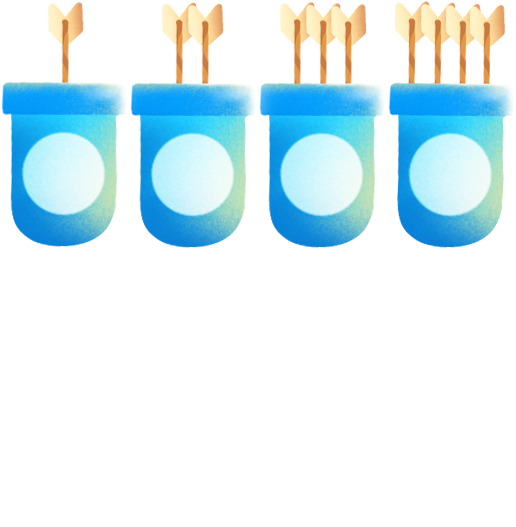
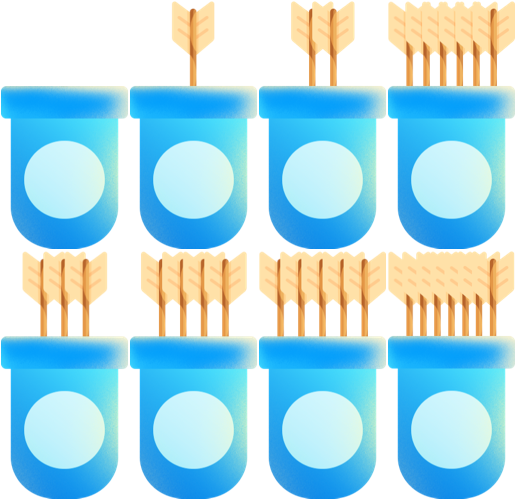
update

diff --git a/src/scenes/Game4/Play.ts b/src/scenes/Game4/Play.ts
@@ -8,6 +8,7 @@ import { cover } from "../../Public/jonny/core/cover";
 import { Gold } from "../../Public/jonny/components/Gold";
 import CreateGuideAnims from "../../Public/CreateGuideAnims";
 import { SellingGold } from "../../Public/jonny/components/SellingGold";
+import TipsParticlesEmitter from "../../Public/TipsParticlesEmitter";
 
 const W = 1024;
 const H = 552;
@@ -40,8 +41,9 @@ export default class Game4PlayScene extends Phaser.Scene {
     private createGuideAnims : CreateGuideAnims; //引导动画引用
     private goldObj : Gold ; //金币组件引用
     private goldNum : number = 20; //初始金币
-    private errorNum : number = 0; //错误次数
-    private lockLifeHandle : boolean = false ; //锁血
+    private isCheck : boolean = false; //是否结算
+    private tips : TipsParticlesEmitter; //游戏结果
+    // private lockLifeHandle : boolean = false ; //锁血
     // private arrowCirObj : Phaser.GameObjects.Graphics; //箭上的圆圈
     // private arrowText : Phaser.GameObjects.Text; //箭头上面的文本
     constructor() {
@@ -62,6 +64,7 @@ export default class Game4PlayScene extends Phaser.Scene {
       this.loadBgm(); //加载背景音乐跟音效
       PlanAnims.loadImg(this); //全局组件加载img
       SellingGold.loadImg(this); //全局组件加载Img
+      TipsParticlesEmitter.loadImg(this);
     }
     
   
@@ -84,6 +87,8 @@ export default class Game4PlayScene extends Phaser.Scene {
         });
         this.goldObj = new Gold(this,20);
         this.add.existing(this.goldObj);
+        this.tips = new TipsParticlesEmitter(this)
+        this.goldObj.setText(this.goldNum -= 1);
       })
       this.createBackgroundImage(); //背景图
       // this.createMask() ; //创建遮罩层
@@ -132,12 +137,12 @@ export default class Game4PlayScene extends Phaser.Scene {
 
     private createQuiver () : void {
       //创建气泡跟箭筒
-      this.quiver = this.add.sprite(250,H - 100,'game4Icons2',`jianshi${this.words.length}.png`).setScale(0.8);
+      this.quiver = this.add.sprite(250,H - 100,'game4Icons2',`jianshi${this.quiverNum}.png`).setScale(0.8);
       this.quiverText = this.add.text(this.quiver.x,this.quiver.y + 40,this.words[0].name,{
         font: 'bold 37px Arial Rounded MT',
         fill : '#017dbd',
       }).setOrigin(.5);
-      this.popObj = this.add.sprite(this.civa.x + 150,this.civa.y - 50,'game4Icons2','talk.png').setScale(.5).setOrigin(.5);
+      this.popObj = this.add.sprite(this.civa.x + 150,this.civa.y - 50,'talk').setScale(.5).setOrigin(.5);
       this.popText = this.add.text(this.popObj.x,this.popObj.y - 10,this.ccData[this.ccDataIndex].name,{
         font: 'bold 50px Arial Rounded MT',
         fill : '#ff5054',
@@ -185,7 +190,7 @@ export default class Game4PlayScene extends Phaser.Scene {
 
     private createArrow () : void {
       //创建箭矢
-      this.arrowObj = this.physics.add.sprite(this.civa.x + this.civa.width / 2,this.civa.y + this.civa.height / 2 + 60,'icons','jian.png').setOrigin(0.5).setAlpha(0);
+      this.arrowObj = this.physics.add.sprite(this.civa.x + this.civa.width / 2,this.civa.y + this.civa.height / 2 + 60,'jian').setOrigin(0.5).setAlpha(0);
       // this.arrowCirObj = this.add.graphics();
       // this.arrowCirObj.fillStyle(0xffffff, 0.8);
       // this.arrowCirObj.fillCircle(this.arrowObj.x,this.arrowObj.y,20);
@@ -220,10 +225,8 @@ export default class Game4PlayScene extends Phaser.Scene {
             this.allBallonIsFinish();
           }
         }else{
-          this.errorNum = this.errorNum + 1 > this.words.length && this.words.length || this.errorNum + 1; //错误次数 错一次金币少一颗
-          console.log(this.errorNum);
           this.setPopAndQuiver(true);
-          this.showWrongObjHandle();
+          this.tips.tryAgain(()=>{});
           this.playMusic('wrong');
           this.shootLock = false;
           this.clickLock = true;
@@ -267,6 +270,7 @@ export default class Game4PlayScene extends Phaser.Scene {
           !this.showWordHandle.lock && (this.createGuideAnims = new CreateGuideAnims(this,this.wordObj.x + 200, this.wordObj.y));
           //@ts-ignore
           this.showWordHandle.lock = true;
+          this.isCheck = true;
         }
       })
     }
@@ -306,7 +310,6 @@ export default class Game4PlayScene extends Phaser.Scene {
       this.lineSprites[this.currentClickIndex] = null;
       this.textArr[this.currentClickIndex].destroy();
       this.textArr[this.currentClickIndex] = null;
-      this.changeQuiverNums(this.quiverNum - 1); //修改箭筒箭矢数量
     }
 
     private getAngel (px : number,py : number,mx : number,my : number) : number {
@@ -433,11 +436,11 @@ export default class Game4PlayScene extends Phaser.Scene {
           audioKey : r.audioKey
         }
       }) || this.transDataHandle(currentItem);
-      this.quiverNum = this.words.length ; //箭筒箭矢数量初始化
+      this.quiverNum = this.words.length + 3 ; //箭筒箭矢数量初始化
       this.errorWords = this.shuffle([...this.words]); //打乱原始数据
-      this.errorNum = 0; //清空错误次数
       this.ballonSprites.length = 0 ;
-      this.lockLifeHandle = false ; //解除锁血
+      this.isCheck = false;
+      // this.lockLifeHandle = false ; //解除锁血
     }
 
     private playMusic (sourceKey : string) : void {
@@ -478,14 +481,55 @@ export default class Game4PlayScene extends Phaser.Scene {
         return new Blob([uInt8Array], {type: contentType});
     }
 
+    private tryAgainHandle () : void {
+      this.quiverNum = this.words.length + 3;
+      this.changeQuiverNums(this.quiverNum);
+    }
+
+
+    private nextWordHandle () : void {
+      //下一个词
+      // ballonSprites,lineSprites,wolfObj
+      this.ballonSprites.map((r,i)=>{
+        r.destroy();
+      });
+      this.lineSprites.map((r,i)=>{
+        r.destroy();
+      })
+      this.textArr.map((r,i)=>{
+        r.destroy();
+      })
+      this.ballonSprites.length = 0;
+      this.lineSprites.length = 0;
+      this.textArr.length = 0;
+      this.wolfObj.destroy();
+      this.wolfObj = null;
+      this.goldObj.setText(this.goldNum += this.quiverNum);
+      this.wordObj.setScale(1);
+      this.currentWord.setScale(1);
+      this.wordObj.y += H;
+      this.currentWord.y += H;
+      if(++this.ccDataIndex >= this.ccData.length){
+        this.ccDataIndex = 0;
+      }
+      this.popText.setText(this.ccData[this.ccDataIndex].name);
+      this.index = -1;
+      this.civa.destroy();
+      this.setWords();
+      this.createWord();
+      this.drawCivaAndWolf();
+      this.drawAnimsHandle();
+      this.setPopAndQuiver();
+      this.changeQuiverNums(this.quiverNum); 
+    }
+
     private clickHandle () : void {
       //点击场景触发
       this.input.on('pointerdown',(...args)=>{
         //@ts-ignore
         if(args[1].length === 0 || args[1][0] instanceof Phaser.GameObjects.Image ) return;
         if(this.goldNum === 0 ) return alert('啊哦，金币不足，一起去赚金币吧');
-        !this.lockLifeHandle && this.goldObj.setText(this.goldNum -= 1);
-        this.lockLifeHandle = true;
+        if(this.quiverNum === 0 && !this.isCheck) return this.tips.error(this.nextWordHandle.bind(this),this.tryAgainHandle.bind(this));
         this.playMusic('shoot');
         this.createGuideAnims && this.createGuideAnims.hideHandle(); //隐藏引导动画
         this.createGuideAnims = null;
@@ -502,30 +546,15 @@ export default class Game4PlayScene extends Phaser.Scene {
             onComplete : ()=>{
               let goldAnims = new SellingGold(this,{
                 callback : ()=>{
-                  this.goldObj.setText(this.goldNum += (this.words.length - this.errorNum));
-                  this.wordObj.setScale(1);
-                  this.currentWord.setScale(1);
-                  this.wordObj.y += H;
-                  this.currentWord.y += H;
-                  if(++this.ccDataIndex >= this.ccData.length){
-                    this.ccDataIndex = 0;
-                  }
-                  this.popText.setText(this.ccData[this.ccDataIndex].name);
-                  this.index = -1;
-                  this.civa.destroy();
-                  this.setWords();
-                  this.createWord();
-                  this.drawCivaAndWolf();
-                  this.drawAnimsHandle();
-                  this.setPopAndQuiver();
-                  this.changeQuiverNums(this.quiverNum);   
+                    this.nextWordHandle();
                 }
               });
-              goldAnims.goodJob(this.words.length - this.errorNum);
+              goldAnims.goodJob(this.quiverNum);
             }
           })
         }
         if(this.shootLock) return;
+        this.changeQuiverNums(this.quiverNum - 1); //修改箭筒箭矢数量
         this.tweens.add({
           targets : args[1][0],
           duration : 200,
@@ -551,7 +580,7 @@ export default class Game4PlayScene extends Phaser.Scene {
     }
 
     private changeQuiverNums (index : number) : void{
-      this.quiverNum = index < 1 && 1 || index;
+      this.quiverNum = index < 0 ? 0 : index;
       this.quiver.setFrame(`jianshi${this.quiverNum}.png`);
     }
 

diff --git a/src/Public/TipsParticlesEmitter.ts b/src/Public/TipsParticlesEmitter.ts
@@ -16,7 +16,7 @@ export default class TipsParticlesEmitter {
     private tryAgainBtn : Phaser.GameObjects.Image; //再试一次按钮
     private nextBtn : Phaser.GameObjects.Image; //换一个
     private lock : boolean = false;  //节流锁
-    constructor(scene : Phaser.Scene,config : config){
+    constructor(scene : Phaser.Scene,config? : config){
         this.scene = scene;
         this.config = config;
         this.init();
@@ -32,7 +32,7 @@ export default class TipsParticlesEmitter {
 
     private createEmitter () : void {
         //创建粒子效果发射器
-        this.particles = this.scene.add.particles('particles').setDepth(99);
+        this.particles = this.scene.add.particles('particles').setDepth(2000);
         this.emitters = this.particles.createEmitter({
           lifespan : 1000,
           speed : { min: 300, max: 400},
@@ -48,7 +48,7 @@ export default class TipsParticlesEmitter {
       //创建开始游戏遮罩
       this.graphicsObj = this.scene.add.graphics();
       this.graphicsObj.fillStyle(0x000000,.8);
-      this.graphicsObj.fillRect(0,0,1024,552).setDepth(1);
+      this.graphicsObj.fillRect(0,0,1024,552).setDepth(1999);
     }
 
     private playMusic(sourceKey : string) : void {
@@ -57,14 +57,14 @@ export default class TipsParticlesEmitter {
       mp3.play();
     }
 
-    public success() : void {
+    public success(cb : Function) : void {
         if(this.lock) return;
         this.lock = true;
-        this.config.renderBefore && this.config.renderBefore();
+        this.config && this.config.renderBefore && this.config.renderBefore();
         this.tips = this.scene.add.sprite(W / 2 , 208 ,'glodGoodJob')
                       .setOrigin(.5)
                       .setScale(0)
-                      .setDepth(100);
+                      .setDepth(2000);
         this.playMusic('success');
         this.createMask();
         this.boom();
@@ -91,25 +91,25 @@ export default class TipsParticlesEmitter {
           delay : 1000,
           callback : ()=>{
             this.clearHandle();
-            this.config.successCb ();
+            cb && cb.call(this.scene);
           }
         })
     }
 
-    public tryAgain() : void {
+    public tryAgain(cb : Function) : void {
       if(this.lock) return;
       this.playMusic('success');
       this.lock = true;
-      this.config.renderBefore && this.config.renderBefore();
+      this.config && this.config.renderBefore && this.config.renderBefore();
       this.tips = this.scene.add.sprite(W / 2 , 208 ,'tipsTryagain')
                     .setOrigin(.5)
                     .setScale(0)
                     .setAngle(0)
-                    .setDepth(100);
+                    .setDepth(2000);
       this.tryAgainBtn = this.scene.add.image(W / 2 , 421 , 'btnAgain' )
                           .setOrigin(.5)
                           .setAlpha(0)
-                          .setDepth(100)
+                          .setDepth(2001)
                           .setInteractive();
       this.createMask();
       this.scene.tweens.add({
@@ -154,28 +154,28 @@ export default class TipsParticlesEmitter {
           }
         ],
         onComplete : ()=>{
-          this.tryAgainBtn.on('pointerdown',this.tryAgainHandle.bind(this))
+          this.tryAgainBtn.on('pointerdown',this.tryAgainHandle.bind(this,cb.bind(this.scene)))
         }
       })
       
     }
 
-    public error () : void {
+    public error (nextCb : Function , tryagainCb : Function) : void {
       if(this.lock) return;
       this.playMusic('success');
       this.lock = true;
-      this.config.renderBefore && this.config.renderBefore();
+      this.config && this.config.renderBefore && this.config.renderBefore();
       this.tips = this.scene.add.sprite(W / 2 , 208 - H ,'tipsNo')
                     .setOrigin(.5)
-                    .setDepth(100);
+                    .setDepth(2000);
       this.tryAgainBtn = this.scene.add.image(551 , 364 + 20 , 'btnAgainOnce')
                           .setOrigin(0)
-                          .setDepth(100)
+                          .setDepth(2001)
                           .setInteractive()
                           .setAlpha(0);
       this.nextBtn = this.scene.add.image(293.5 , 364 + 20 , 'btnChange')
                       .setOrigin(0)
-                      .setDepth(100)
+                      .setDepth(2001)
                       .setInteractive()
                       .setAlpha(0);
       this.createMask();
@@ -193,16 +193,16 @@ export default class TipsParticlesEmitter {
         ease : 'Sine.easeInOut',
         duration : 800,
         onComplete : ()=>{
-          this.tryAgainBtn.on('pointerdown',this.tryAgainHandle.bind(this));
-          this.nextBtn.on('pointerdown',this.nextHandle.bind(this));
+          this.tryAgainBtn.on('pointerdown',this.tryAgainHandle.bind(this,tryagainCb.bind(this.scene)));
+          this.nextBtn.on('pointerdown',this.nextHandle.bind(this,nextCb.bind(this.scene)));
         }
       });
     }
 
-    private nextHandle() : void {
+    private nextHandle(cb : Function) : void {
       this.playMusic('clickMp3');
       this.clearHandle();
-      this.config.nextCb.call(this.scene);
+      cb();
     }
 
     private clearHandle () : void {
@@ -219,10 +219,10 @@ export default class TipsParticlesEmitter {
       this.lock = false;
     }
     
-    private tryAgainHandle() : void {
+    private tryAgainHandle(cb : Function) : void {
       this.playMusic('clickMp3');
       this.clearHandle();
-      this.config.tryAgainCb.call(this.scene);
+      cb();
     }
     
 

diff --git a/src/scenes/Game4/Load.ts b/src/scenes/Game4/Load.ts
@@ -37,6 +37,8 @@ export default class Game4LoadScene extends Phaser.Scene {
     this.load.image('game4WrongImg','assets/Game4/wrong.png'); 
     this.load.image('goldValue','assets/commonUI/goldValue.png');
     this.load.image('game4Mask','assets/mask/Game4.png');
+    this.load.image('jian','assets/Game4/jian.png');
+    this.load.image('talk','assets/Game4/talk.png');
     this.load.multiatlas('icons','assets/Game4/imgsJson.json','assets/Game4');
     this.load.multiatlas('game4Icons2','assets/Game4/imgsJson2.json','assets/Game4');
     this.load.multiatlas('shoot','assets/Game4/shoot.json','assets/Game4');

diff --git a/index.html b/index.html
@@ -70,7 +70,7 @@
             font-family: 'sxdc';
             position: absolute;
             left:200%;
-            top:0;
+            top:200%;
             z-index: -100;
         }
     </style>
@@ -85,6 +85,6 @@
     <div id="masker">
         <div id="closeBtn"></div>
     </div>
-    <div class="dontRemove"></div>
+    <div class="dontRemove">a</div>
 <script type="text/javascript" src="./dist/vendor.bundle.js"></script><script type="text/javascript" src="./dist/bundle.js"></script></body>
 </html>

diff --git a/src/index.html b/src/index.html
@@ -70,7 +70,7 @@
             font-family: 'sxdc';
             position: absolute;
             left:200%;
-            top:0;
+            top:200%;
             z-index: -100;
         }
     </style>
@@ -85,5 +85,5 @@
     <div id="masker">
         <div id="closeBtn"></div>
     </div>
-    <div class="dontRemove"></div>
+    <div class="dontRemove">a</div>
 </body>

diff --git a/src/interface/TipsParticlesEmitter.ts b/src/interface/TipsParticlesEmitter.ts
@@ -1,6 +1,3 @@
 export interface config {
-    successCb : Function;
-    tryAgainCb : Function;
-    nextCb : Function;
     renderBefore? : Function
 }
